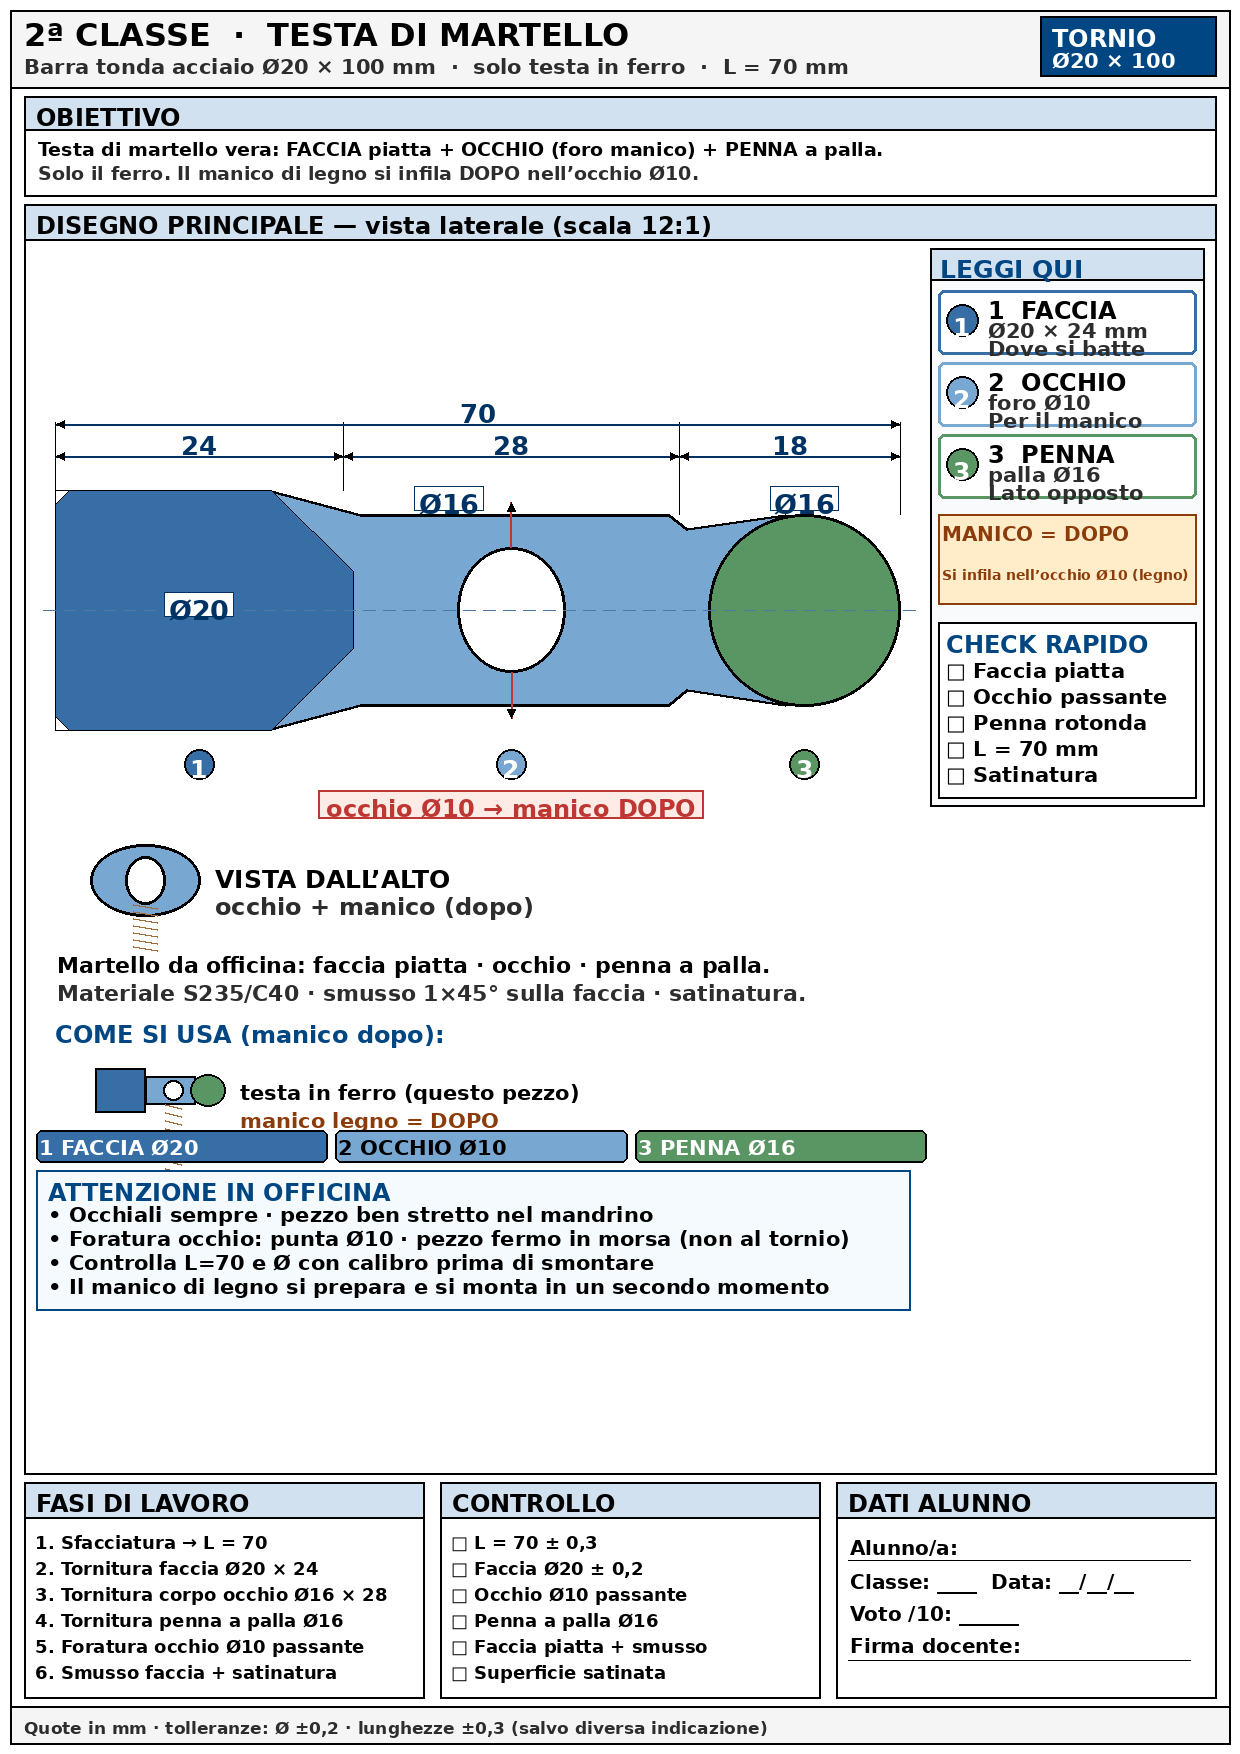
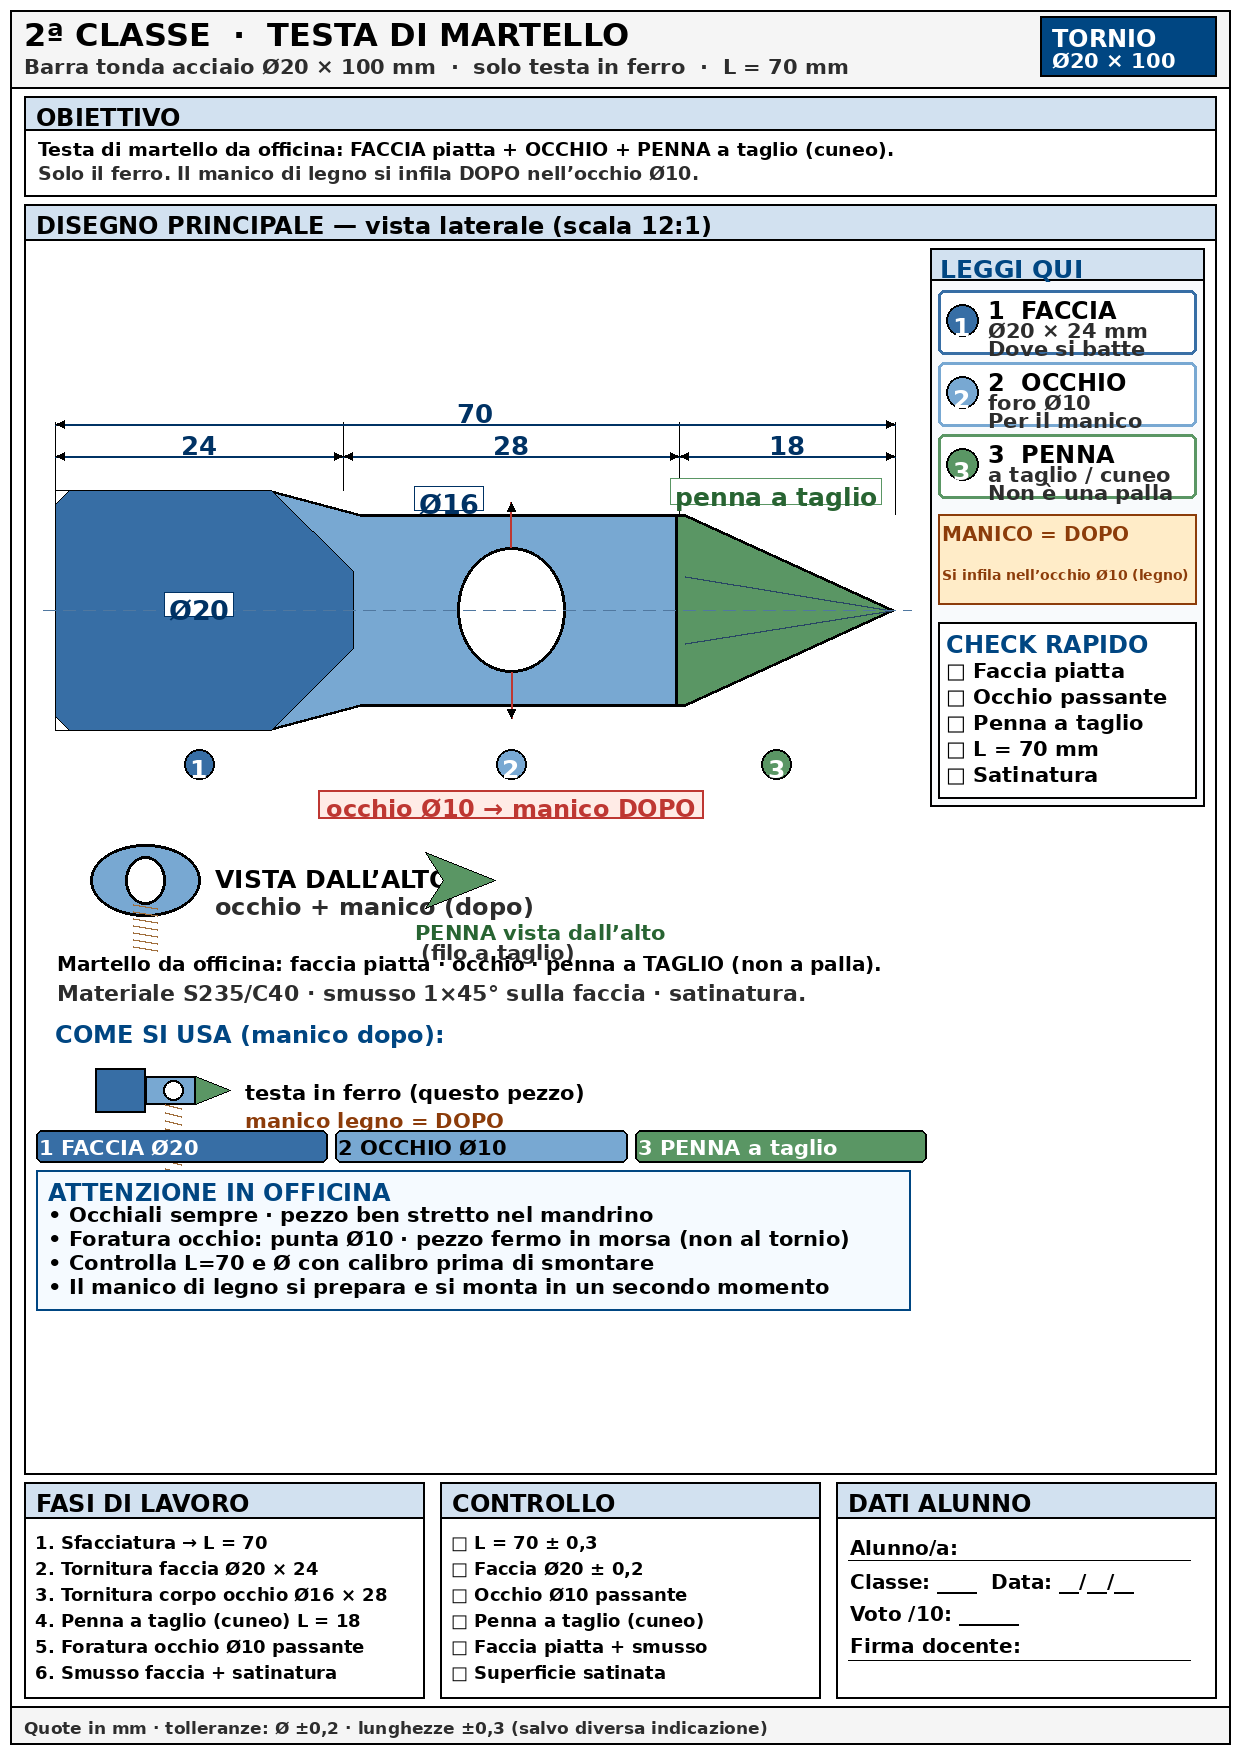
Penna a taglio (cuneo), non palla centrata sulla testa.
Martello da officina: faccia + occhio + penna a cuneo.

diff --git a/progetti-ferro-gallery/generate_ferro.py b/progetti-ferro-gallery/generate_ferro.py
@@ -370,7 +370,7 @@ def save(img, name, stampa=None):
 
 # ═══════════════════════════════════════════
 # 2ª TESTA DI MARTELLO (solo ferro — manico dopo)
-# Forma vera: FACCIA + OCCHIO + PENNA A PALLA
+# Forma vera: FACCIA + OCCHIO + PENNA A TAGLIO (cuneo)
 # ═══════════════════════════════════════════
 def make_2a():
     img, d = new_sheet(
@@ -382,17 +382,16 @@ def make_2a():
     draw_top = write_obiettivo(
         d,
         [
-            "Testa di martello vera: FACCIA piatta + OCCHIO (foro manico) + PENNA a palla.",
+            "Testa di martello da officina: FACCIA piatta + OCCHIO + PENNA a taglio (cuneo).",
             ("Solo il ferro. Il manico di legno si infila DOPO nell’occhio Ø10.", GRAY),
         ],
     )
 
-    # Pannelli bassi compatti → disegno occupa il resto (niente vuoti enormi)
     fasi = [
         "1. Sfacciatura → L = 70",
         "2. Tornitura faccia Ø20 × 24",
         "3. Tornitura corpo occhio Ø16 × 28",
-        "4. Tornitura penna a palla Ø16",
+        "4. Penna a taglio (cuneo) L = 18",
         "5. Foratura occhio Ø10 passante",
         "6. Smusso faccia + satinatura",
     ]
@@ -400,12 +399,11 @@ def make_2a():
         "□ L = 70 ± 0,3",
         "□ Faccia Ø20 ± 0,2",
         "□ Occhio Ø10 passante",
-        "□ Penna a palla Ø16",
+        "□ Penna a taglio (cuneo)",
         "□ Faccia piatta + smusso",
         "□ Superficie satinata",
     ]
     step = 26
-    # Fondi compatti (~220); il disegno prende tutto il resto e lo riempie
     bh = 40 + max(len(fasi), len(ctrl)) * step + 20
     bot = FOOT - bh - 8
     draw_h = bot - draw_top - 8
@@ -413,7 +411,6 @@ def make_2a():
     panel_bottom = draw_top + draw_h
 
     info_x1, info_x2 = 930, W - 36
-    # LEGGI QUI alto quanto il contenuto (+ check sotto)
     leggi_bottom = draw_top + 418 + 36 + 5 * 26 + 10 + 8
     d.rectangle([info_x1, draw_top + 44, info_x2, leggi_bottom], fill=(248, 250, 252), outline=BLACK, width=2)
     d.rectangle([info_x1, draw_top + 44, info_x2, draw_top + 76], fill=LIGHT, outline=BLACK, width=2)
@@ -422,7 +419,7 @@ def make_2a():
     blocks = [
         (STEEL_D, "FACCIA", "Ø20 × 24 mm", "Dove si batte"),
         (STEEL, "OCCHIO", "foro Ø10", "Per il manico"),
-        ((90, 150, 100), "PENNA", "palla Ø16", "Lato opposto"),
+        ((90, 150, 100), "PENNA", "a taglio / cuneo", "Non è una palla"),
     ]
     for i, (col, title, line1, line2) in enumerate(blocks):
         yy = draw_top + 86 + i * 72
@@ -440,36 +437,33 @@ def make_2a():
     text_in_box(d, info_x1 + 8, draw_top + 316, info_x2 - info_x1 - 16, 28, "MANICO = DOPO", F14, WARN, pad=4)
     text_in_box(d, info_x1 + 8, draw_top + 348, info_x2 - info_x1 - 16, 44, "Si infila nell’occhio Ø10 (legno)", F13, WARN, pad=4)
 
-    # ── Martello da officina: profilo continuo, scala grande ──
+    # ── Martello da officina: faccia + occhio + PENNA A TAGLIO (cuneo) ──
     sc = 12.0
     mid = draw_top + int(draw_h * 0.32)
     ox = 55
     Lf, Lo, Lp = 24, 28, 18
-    hf, hw, hp = 10 * sc, 8 * sc, 8 * sc
+    hf, hw = 10 * sc, 8 * sc  # Ø20 / Ø16
+    hp0 = 8 * sc              # altezza alla base della penna
 
     x0 = ox
     x1 = ox + Lf * sc
     x2 = ox + (Lf + Lo) * sc
-    peen_cx = x2 + Lp * sc * 0.58
-    peen_r = hp
-    end_x = peen_cx + peen_r
+    end_x = x2 + Lp * sc      # punta del cuneo
+    peen_mid = x2 + Lp * sc * 0.45
 
     def P(xm, ym):
         return (xm, mid + ym)
 
+    # Profilo continuo: faccia → vita → cuneo che va a punta (non palla!)
     outline = [
         P(x0, -hf),
         P(x0 + Lf * sc * 0.75, -hf),
         P(x1 + 18, -hw),
-        P(x2 - 10, -hw),
-        P(x2 + 8, -peen_r * 0.85),
-        P(peen_cx - peen_r * 0.2, -peen_r),
-        P(peen_cx + peen_r * 0.55, -peen_r * 0.75),
-        P(peen_cx + peen_r, 0),
-        P(peen_cx + peen_r * 0.55, peen_r * 0.75),
-        P(peen_cx - peen_r * 0.2, peen_r),
-        P(x2 + 8, peen_r * 0.85),
-        P(x2 - 10, hw),
+        P(x2 - 6, -hw),
+        P(x2 + 4, -hp0),          # inizio penna (ancora alta)
+        P(end_x, 0),              # punta del cuneo sull’asse
+        P(x2 + 4, hp0),
+        P(x2 - 6, hw),
         P(x1 + 18, hw),
         P(x0 + Lf * sc * 0.75, hf),
         P(x0, hf),
@@ -484,10 +478,18 @@ def make_2a():
     d.polygon([P(x0, -hf), P(x0 + 14, -hf), P(x0, -hf + 14)], fill=WHITE, outline=BLACK)
     d.polygon([P(x0, hf), P(x0 + 14, hf), P(x0, hf - 14)], fill=WHITE, outline=BLACK)
 
-    d.ellipse(
-        [peen_cx - peen_r, mid - peen_r, peen_cx + peen_r, mid + peen_r],
-        fill=(90, 150, 100), outline=BLACK, width=3,
-    )
+    # PENNA a taglio = cuneo verde (non sfera centrata)
+    penna = [
+        P(x2 - 4, -hw),
+        P(x2 + 6, -hp0),
+        P(end_x, 0),
+        P(x2 + 6, hp0),
+        P(x2 - 4, hw),
+    ]
+    d.polygon(penna, fill=(90, 150, 100), outline=BLACK, width=3)
+    # linea di taglio (filo della penna) — vista laterale del cuneo
+    d.line([x2 + 6, mid - hp0 * 0.35, end_x - 4, mid], fill=SOFT, width=2)
+    d.line([x2 + 6, mid + hp0 * 0.35, end_x - 4, mid], fill=SOFT, width=2)
 
     hx = (x1 + x2) / 2
     hole_rx, hole_ry = 4.5 * sc, 5.2 * sc
@@ -512,11 +514,16 @@ def make_2a():
     for cx, lab, yy in (
         ((x0 + x1) / 2, "Ø20", mid - 16),
         (hx - 62, "Ø16", mid - hw - 26),
-        (peen_cx, "Ø16", mid - peen_r - 26),
     ):
         tw = d.textlength(lab, font=F15)
         d.rectangle([cx - tw / 2 - 4, yy - 2, cx + tw / 2 + 4, yy + 22], fill=WHITE, outline=DIM_COL, width=1)
         d.text((cx - tw / 2, yy), lab, fill=DIM_COL, font=F15)
+
+    # etichetta penna a taglio
+    ptxt = "penna a taglio"
+    ptw = d.textlength(ptxt, font=F14)
+    d.rectangle([peen_mid - ptw / 2 - 4, mid - hp0 - 36, peen_mid + ptw / 2 + 4, mid - hp0 - 10], fill=WHITE, outline=(90, 150, 100), width=1)
+    d.text((peen_mid - ptw / 2, mid - hp0 - 32), ptxt, fill=(40, 100, 50), font=F14)
 
     def badge(cx, cy, n, bg):
         d.ellipse([cx - 15, cy - 15, cx + 15, cy + 15], fill=bg, outline=BLACK, width=2)
@@ -526,7 +533,7 @@ def make_2a():
     badge_y = mid + hf + 34
     badge((x0 + x1) / 2, badge_y, "1", STEEL_D)
     badge(hx, badge_y, "2", STEEL)
-    badge(peen_cx, badge_y, "3", (90, 150, 100))
+    badge(peen_mid, badge_y, "3", (90, 150, 100))
 
     ftxt = "occhio Ø10 → manico DOPO"
     ftw = d.textlength(ftxt, font=F13) + 16
@@ -534,7 +541,6 @@ def make_2a():
     d.rectangle([hx - ftw / 2, fy, hx + ftw / 2, fy + 28], fill=(255, 235, 230), outline=CAP_RED, width=2)
     d.text((hx - ftw / 2 + 8, fy + 4), ftxt, fill=CAP_RED, font=F13)
 
-    # Blocco inferiore del pannello: vista + note + legenda (riempie senza vuoti)
     block_y = fy + 50
     vx, vy = ox + 90, block_y + 40
     d.ellipse([vx - 55, vy - 36, vx + 55, vy + 36], fill=STEEL, outline=BLACK, width=3)
@@ -544,10 +550,19 @@ def make_2a():
     d.text((vx + 70, vy - 16), "VISTA DALL’ALTO", fill=BLACK, font=F14)
     d.text((vx + 70, vy + 12), "occhio + manico (dopo)", fill=GRAY, font=F13)
 
+    # Mini vista penna dall’alto (filo del cuneo)
+    px, py = vx + 280, vy
+    d.polygon(
+        [(px, py - 28), (px + 70, py), (px, py + 28), (px + 18, py)],
+        fill=(90, 150, 100), outline=BLACK,
+    )
+    d.text((px - 10, py + 40), "PENNA vista dall’alto", fill=(40, 100, 50), font=F12)
+    d.text((px - 4, py + 60), "(filo a taglio)", fill=GRAY, font=F12)
+
     note_y = vy + 70
     text_in_box(
         d, ox, note_y, info_x1 - ox - 24, 26,
-        "Martello da officina: faccia piatta · occhio · penna a palla.",
+        "Martello da officina: faccia piatta · occhio · penna a TAGLIO (non a palla).",
         F14, BLACK, pad=2,
     )
     text_in_box(
@@ -556,25 +571,26 @@ def make_2a():
         F13, GRAY, pad=2,
     )
 
-    # Schemino uso (manico tratteggiato sotto la testa)
     sketch_y = note_y + 70
     d.text((ox, sketch_y), "COME SI USA (manico dopo):", fill=ACCENT, font=F13)
-    # mini testa
     sx0, sy = ox + 40, sketch_y + 70
     d.rectangle([sx0, sy - 22, sx0 + 50, sy + 22], fill=STEEL_D, outline=BLACK, width=2)
     d.rectangle([sx0 + 50, sy - 14, sx0 + 100, sy + 14], fill=STEEL, outline=BLACK, width=2)
-    d.ellipse([sx0 + 95, sy - 16, sx0 + 130, sy + 16], fill=(90, 150, 100), outline=BLACK, width=2)
+    # mini penna a cuneo (non palla)
+    d.polygon(
+        [(sx0 + 100, sy - 14), (sx0 + 135, sy), (sx0 + 100, sy + 14)],
+        fill=(90, 150, 100), outline=BLACK,
+    )
     d.ellipse([sx0 + 68, sy - 10, sx0 + 88, sy + 10], fill=WHITE, outline=BLACK, width=2)
-    # manico verso il basso (tratteggio)
     for i in range(0, 70, 8):
         d.line([sx0 + 70, sy + 14 + i, sx0 + 86, sy + 18 + i], fill=(160, 110, 60), width=2)
-    d.text((sx0 + 145, sy - 10), "testa in ferro (questo pezzo)", fill=BLACK, font=F12)
-    d.text((sx0 + 145, sy + 18), "manico legno = DOPO", fill=WARN, font=F12)
+    d.text((sx0 + 150, sy - 10), "testa in ferro (questo pezzo)", fill=BLACK, font=F12)
+    d.text((sx0 + 150, sy + 18), "manico legno = DOPO", fill=WARN, font=F12)
 
     legend = [
         ("1 FACCIA Ø20", STEEL_D, WHITE),
         ("2 OCCHIO Ø10", STEEL, BLACK),
-        ("3 PENNA Ø16", (90, 150, 100), WHITE),
+        ("3 PENNA a taglio", (90, 150, 100), WHITE),
     ]
     tag_y = sketch_y + 110
     gap = 8
@@ -584,7 +600,6 @@ def make_2a():
         d.rounded_rectangle([xa, tag_y, xa + chip_w, tag_y + 32], radius=6, fill=fill, outline=BLACK, width=2)
         text_in_box(d, xa, tag_y, chip_w, 32, lab, F12, tcol, pad=3)
 
-    # Avvisi: box alto quanto il testo (niente vuoto sotto)
     tip_y = tag_y + 40
     tips = [
         "ATTENZIONE IN OFFICINA",
@@ -601,9 +616,8 @@ def make_2a():
         f = F13 if i == 0 else F12
         d.text((48, tip_y + 8 + i * tip_step), ln, fill=fill, font=f)
 
-    # Check rapido a destra: compatto sotto MANICO
     right_y = draw_top + 418
-    checks = ["□ Faccia piatta", "□ Occhio passante", "□ Penna rotonda", "□ L = 70 mm", "□ Satinatura"]
+    checks = ["□ Faccia piatta", "□ Occhio passante", "□ Penna a taglio", "□ L = 70 mm", "□ Satinatura"]
     rh = 36 + len(checks) * 26 + 10
     d.rectangle([info_x1 + 8, right_y, info_x2 - 8, right_y + rh], fill=WHITE, outline=BLACK, width=2)
     d.text((info_x1 + 16, right_y + 8), "CHECK RAPIDO", fill=ACCENT, font=F13)
